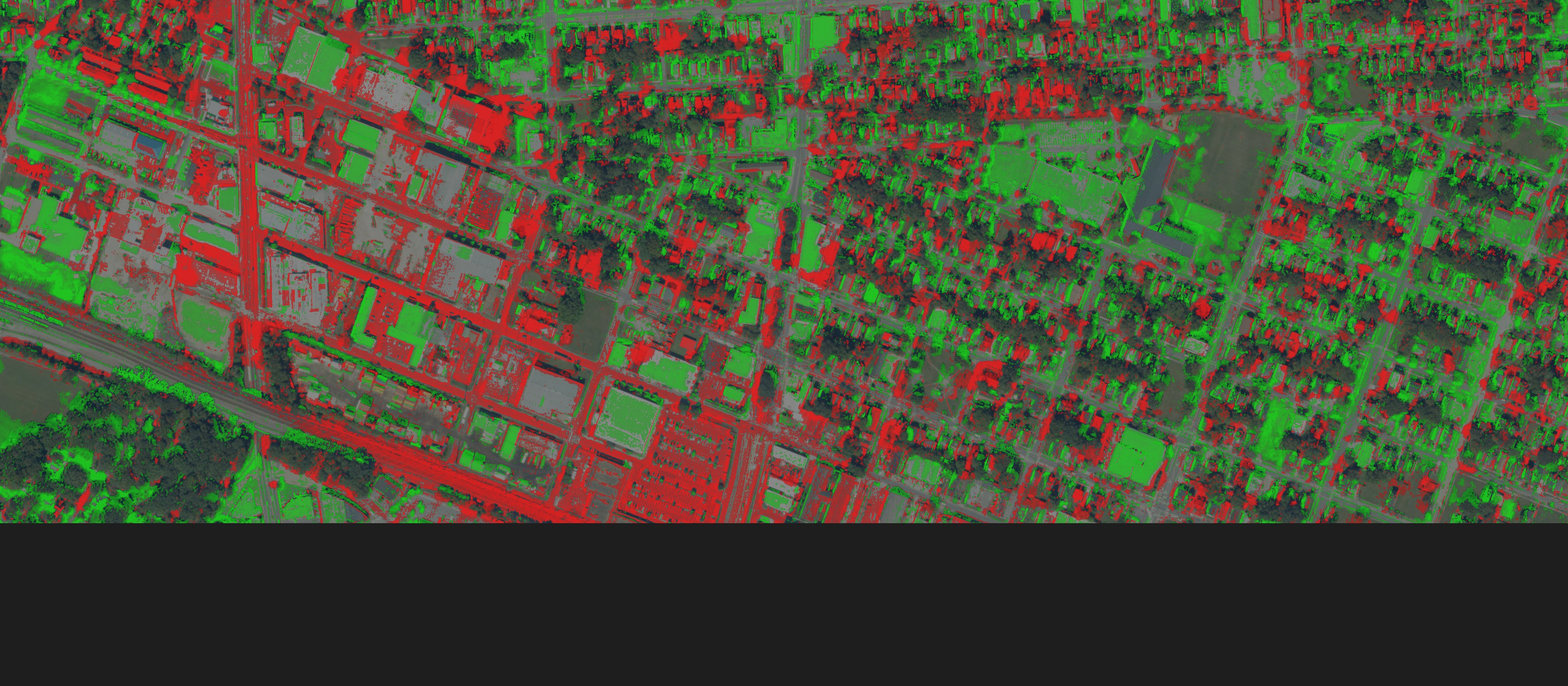
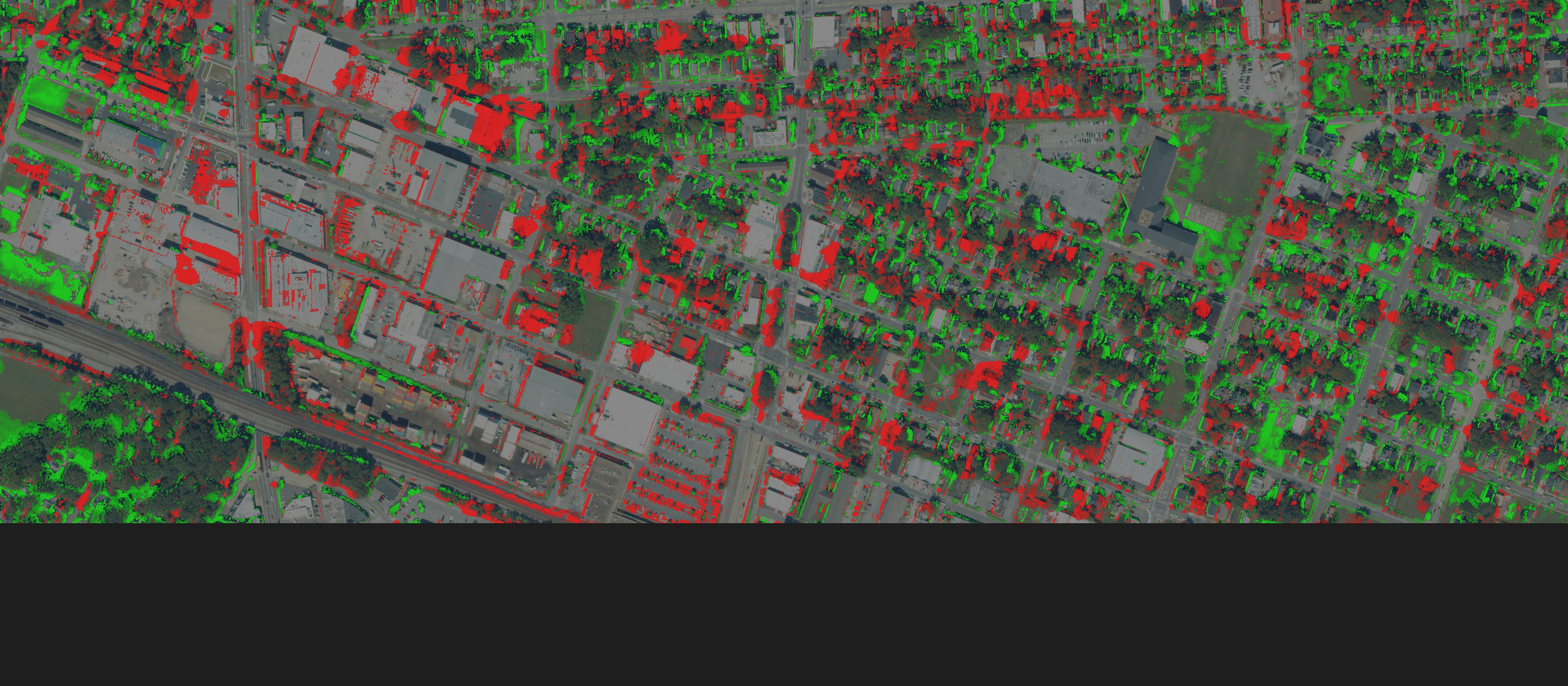
Threshold diff overlay: only highlight where vegetation existed
Pavement-to-pavement rank shifts were showing as false positives.
Now only pixels where at least one year had vegetation (rank > 60th
percentile) are highlighted as loss/gain. Roads and parking lots
stay neutral gray.

diff --git a/tools/canopy-loss/src/main.rs b/tools/canopy-loss/src/main.rs
@@ -671,6 +671,9 @@ fn write_diff_overlay(
     let rank_first = percentile_rank(ndvi_first);
     let rank_last = percentile_rank(ndvi_last);
 
+    // Per-year canopy thresholds: top ~35% of NDVI = vegetation
+    let canopy_rank_thresh = 0.60;
+
     for i in 0..nx * ny {
         let v0 = ndvi_first[i];
         let v1 = ndvi_last[i];
@@ -680,24 +683,27 @@ fn write_diff_overlay(
             continue;
         }
 
-        // Rank-based change: positive = greener relative to peers, negative = less green
+        // Only highlight change where at least one year had vegetation
+        let was_veg = rank_first[i] > canopy_rank_thresh;
+        let is_veg = rank_last[i] > canopy_rank_thresh;
+
         let rank_change = rank_last[i] - rank_first[i];
         let threshold = 0.15;
 
-        let (r, g, b) = if rank_change < -threshold {
-            // Loss: blend red over dimmed base
-            let strength = ((-rank_change - threshold) / 0.4).min(1.0);
-            let alpha = 0.4 + 0.5 * strength;
+        let (r, g, b) = if (was_veg || is_veg) && rank_change < -threshold {
+            // Canopy loss: was green, now less green
+            let strength = ((-rank_change - threshold) / 0.35).min(1.0);
+            let alpha = 0.45 + 0.45 * strength;
             let base = 0.4;
             (
                 (rgb[0][i] as f32 * base * (1.0 - alpha) + 230.0 * alpha) as u8,
                 (rgb[1][i] as f32 * base * (1.0 - alpha) + 30.0 * alpha) as u8,
                 (rgb[2][i] as f32 * base * (1.0 - alpha) + 30.0 * alpha) as u8,
             )
-        } else if rank_change > threshold {
-            // Gain: blend green over dimmed base
-            let strength = ((rank_change - threshold) / 0.4).min(1.0);
-            let alpha = 0.4 + 0.5 * strength;
+        } else if (was_veg || is_veg) && rank_change > threshold {
+            // Canopy gain: wasn't green (or greener now)
+            let strength = ((rank_change - threshold) / 0.35).min(1.0);
+            let alpha = 0.45 + 0.45 * strength;
             let base = 0.4;
             (
                 (rgb[0][i] as f32 * base * (1.0 - alpha) + 30.0 * alpha) as u8,
